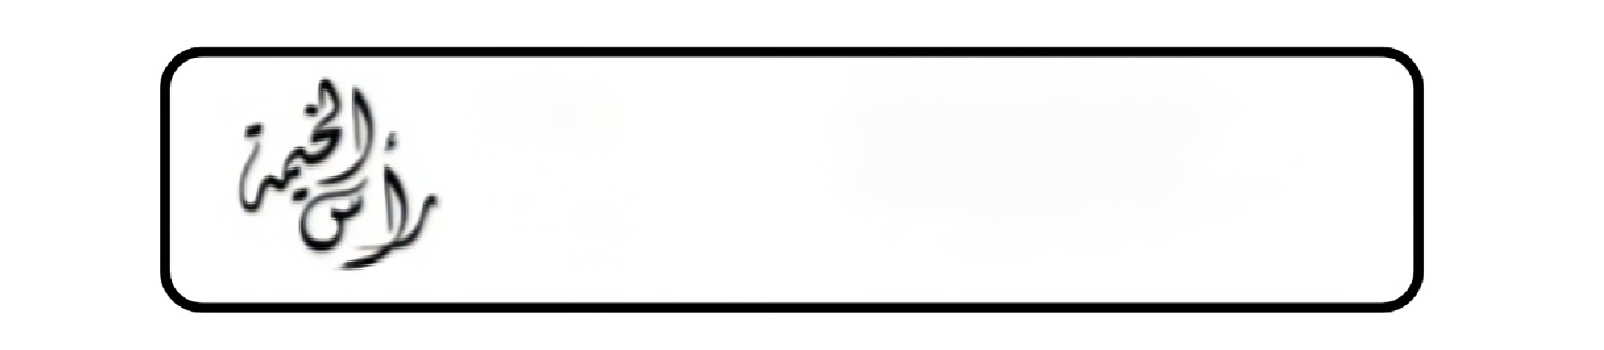
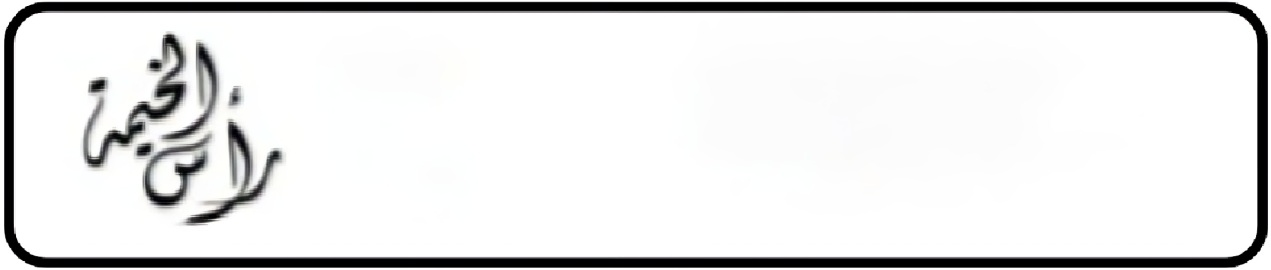
change positions

Changed region(s): [[0.0614, 0.1185, 0.8899, 0.9185], [0.0, 0.0, 1.0, 1.0]]

diff --git a/templates/plates/draw_plate.html b/templates/plates/draw_plate.html
@@ -412,14 +412,14 @@
   /* Sharjah (slug "7") */
   .plate-slide.emirate-7 .plate-code-overlay {
     top: 42%;
-    left: 23%;
+    left: 20%;
   }
   .plate-slide.emirate-7 .plate-code {
     font-size: 3rem;
   }
   .plate-slide.emirate-7 .plate-number-overlay {
     top: 43%;
-    left: 57%;
+    left: 60%;
   }
   .plate-slide.emirate-7 .plate-number {
     font-size: 2.8rem;
